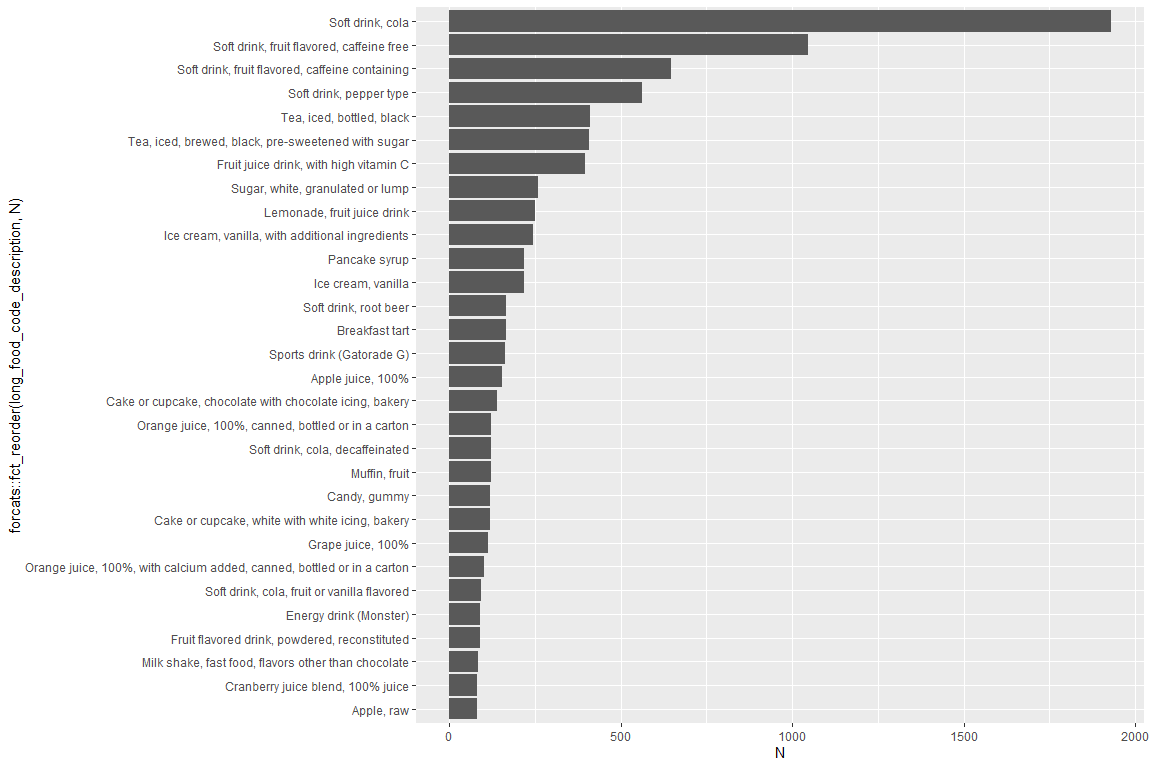
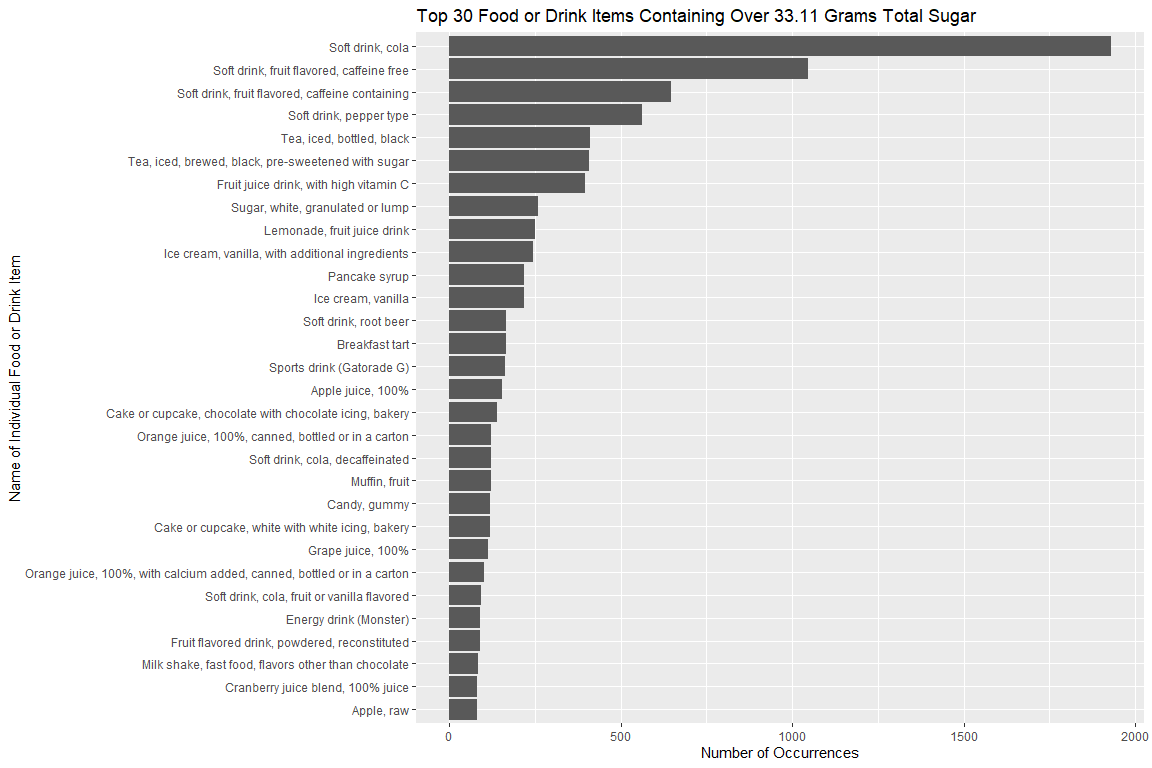
adding axis titles on column plots

Changed region(s): [[0.0, 0.0, 0.9688, 0.9062], [0.0, 0.3125, 0.0312, 0.6875], [0.5938, 0.9688, 0.75, 1.0]]

diff --git a/README.md b/README.md
@@ -277,12 +277,14 @@ sees a dramatic spike in average saturated fatty acid consumption after
 6:00 PM.
 
 <img src="README_files/figure-gfm/plot sugar and saturated fa consumption by eating occasion-1.png" style="display: block; margin: auto;" /><img src="README_files/figure-gfm/plot sugar and saturated fa consumption by eating occasion-2.png" style="display: block; margin: auto;" />
-The plots above reveal that average sugar consumption is lowest in
-formal meals such as breakfast, lunch or dinner. On the other end,
-snacking occasions typically involve much higher average sugar
-consumption. The reverse trend can be seen for average saturated fa
-consumption, as snacks are lower on the y-axis than meals such as lunch
-or dinner.
+Although eating occasions at different times of the day, such as
+breakfast, lunch, and dinner do not see much difference in sugar or
+saturated fatty acid consumption, the plots above do reveal that average
+sugar consumption is lowest in formal meals such as breakfast, lunch or
+dinner. On the other end, snacking occasions typically involve much
+higher average sugar consumption. The reverse trend can be seen for
+average saturated fa consumption, as snacks are lower on the y-axis than
+meals such as lunch or dinner.
 
 #### Does sugar / saturated fatty acid consumption vary by age, ethnicity, gender?
 
@@ -329,19 +331,12 @@ in omega-3 fatty acids.
 
 #### What foods are associated with high sugar or high saturated fatty acids?
 
-<img src="README_files/figure-gfm/unnamed-chunk-2-1.png" style="display: block; margin: auto;" />
-The bar chart above plots the top 30 most common food or drink items in
-the data set recorded to contain over 33.11 grams of sugar, and is
-ranked by how often they occur in the data. It is interesting to see
-that the top four most common high-sugar content items are soft-drinks,
-and that 21 out of 30 of the items are a type of beverage.
-
-<img src="README_files/figure-gfm/unnamed-chunk-3-1.png" style="display: block; margin: auto;" />
-The bar chart above plots the top 30 most common food or drink items in
-the data set recorded to contain over 8.51 grams of saturated fatty
-acids, and is ranked by how often they occur in the data. Commonly
-occurring food items in this plot are pizza and dairy products
-(including ice cream, milkshakes, cheese, and milk).
+<img src="README_files/figure-gfm/unnamed-chunk-2-1.png" style="display: block; margin: auto;" /><img src="README_files/figure-gfm/unnamed-chunk-2-2.png" style="display: block; margin: auto;" />
+It is interesting to see that the top four most common high-sugar
+content items are soft-drinks, and that 21 out of 30 of the items are a
+type of beverage. For saturated fatty acids, commonly occurring food
+items are pizza and dairy products (including ice cream, milkshakes,
+cheese, and milk).
 
 #### Preliminary Conclusions
 
@@ -365,7 +360,7 @@ include pizza, ice cream, milkshakes, and burgers.
 
   
 Both sugar and saturated fatty acid consumption slightly increase with
-age, are slightly higher on Friday, Saturday, and Sunday, and are
+age, are slightly higher on Wednesday, Saturday, and Sunday, and are
 highest between the hours of 8:00 PM and 3:00 AM.
 
 #### Further Directions
